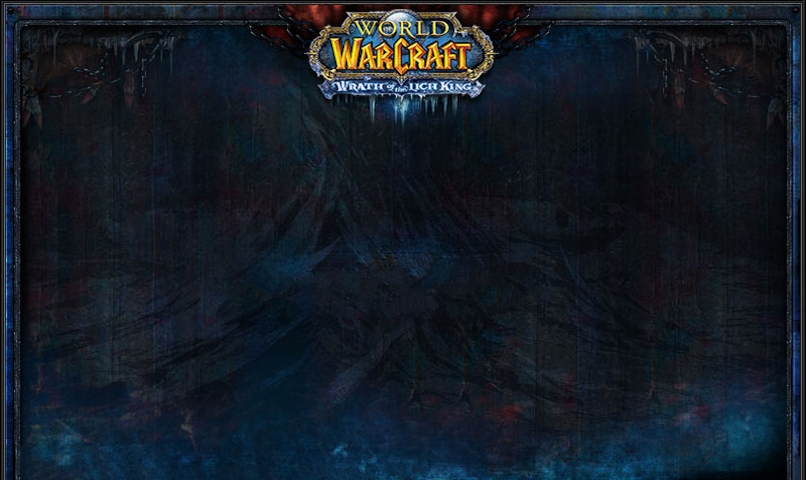
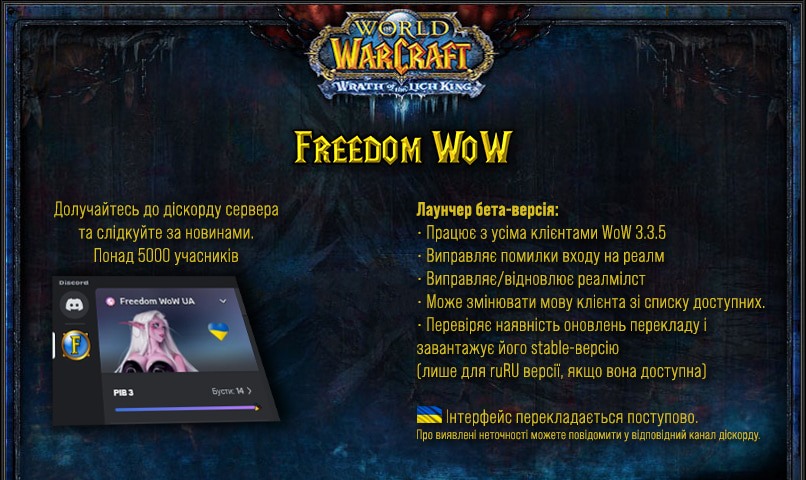
updated main window image, added discord link

diff --git a/Menu.Designer.cs b/Menu.Designer.cs
@@ -43,9 +43,11 @@
             this.progressBar = new System.Windows.Forms.PictureBox();
             this.playButton = new System.Windows.Forms.Button();
             this.topBackground = new System.Windows.Forms.Panel();
+            this.discordLinkLabel = new System.Windows.Forms.LinkLabel();
             this.titleBar.SuspendLayout();
             this.bottomBackground.SuspendLayout();
             ((System.ComponentModel.ISupportInitialize)(this.progressBar)).BeginInit();
+            this.topBackground.SuspendLayout();
             this.SuspendLayout();
             // 
             // frameBottom
@@ -231,10 +233,27 @@
             // 
             this.topBackground.BackgroundImage = global::wow_launcher_cs.Properties.Resources.MainWindowImagePatch;
             this.topBackground.BackgroundImageLayout = System.Windows.Forms.ImageLayout.Center;
+            this.topBackground.Controls.Add(this.discordLinkLabel);
             this.topBackground.Location = new System.Drawing.Point(3, 29);
             this.topBackground.Name = "topBackground";
             this.topBackground.Size = new System.Drawing.Size(806, 480);
             this.topBackground.TabIndex = 2;
+            // 
+            // discordLinkLabel
+            // 
+            this.discordLinkLabel.ActiveLinkColor = System.Drawing.Color.White;
+            this.discordLinkLabel.AutoSize = true;
+            this.discordLinkLabel.BackColor = System.Drawing.Color.Transparent;
+            this.discordLinkLabel.Font = new System.Drawing.Font("Microsoft Sans Serif", 12F, System.Drawing.FontStyle.Regular, System.Drawing.GraphicsUnit.Point, ((byte)(204)));
+            this.discordLinkLabel.LinkBehavior = System.Windows.Forms.LinkBehavior.NeverUnderline;
+            this.discordLinkLabel.LinkColor = System.Drawing.Color.White;
+            this.discordLinkLabel.Location = new System.Drawing.Point(72, 432);
+            this.discordLinkLabel.Name = "discordLinkLabel";
+            this.discordLinkLabel.Size = new System.Drawing.Size(181, 20);
+            this.discordLinkLabel.TabIndex = 0;
+            this.discordLinkLabel.TabStop = true;
+            this.discordLinkLabel.Text = "discord.gg/freedom-wow";
+            this.discordLinkLabel.LinkClicked += new System.Windows.Forms.LinkLabelLinkClickedEventHandler(this.OnLinkClicked);
             // 
             // Menu
             // 
@@ -263,6 +282,8 @@
             this.bottomBackground.ResumeLayout(false);
             this.bottomBackground.PerformLayout();
             ((System.ComponentModel.ISupportInitialize)(this.progressBar)).EndInit();
+            this.topBackground.ResumeLayout(false);
+            this.topBackground.PerformLayout();
             this.ResumeLayout(false);
 
         }
@@ -282,5 +303,6 @@
         private System.Windows.Forms.Panel bottomBackground;
         private System.Windows.Forms.Label DownloadInfoLabel;
         private System.Windows.Forms.Button SettingsButton;
+        private System.Windows.Forms.LinkLabel discordLinkLabel;
     }
 }

diff --git a/Menu.cs b/Menu.cs
@@ -538,5 +538,23 @@ namespace wow_launcher_cs
             }
             UpdatePlayButton(playButton);
         }
+
+        private void OnLinkClicked(object sender, LinkLabelLinkClickedEventArgs e)
+        {
+            // Відкриття сайту у браузері за замовчуванням
+            string url = "https://discord.gg/freedom-wow";
+            try
+            {
+                System.Diagnostics.Process.Start(new System.Diagnostics.ProcessStartInfo
+                {
+                    FileName = url,
+                    UseShellExecute = true // Це потрібно для відкриття URL у браузері
+                });
+            }
+            catch (Exception ex)
+            {
+                MessageBox.Show($"Не вдалося відкрити сайт: {ex.Message}", "Помилка", MessageBoxButtons.OK, MessageBoxIcon.Error);
+            }
+        }
     }
 }

diff --git a/Properties/AssemblyInfo.cs b/Properties/AssemblyInfo.cs
@@ -32,5 +32,5 @@ using System.Runtime.InteropServices;
 // You can specify all the values or you can default the Build and Revision Numbers
 // by using the '*' as shown below:
 // [assembly: AssemblyVersion("1.0.*")]
-[assembly: AssemblyVersion("1.1.0.8")]
-[assembly: AssemblyFileVersion("1.1.0.8")]
+[assembly: AssemblyVersion("1.1.0.9")]
+[assembly: AssemblyFileVersion("1.1.0.9")]
